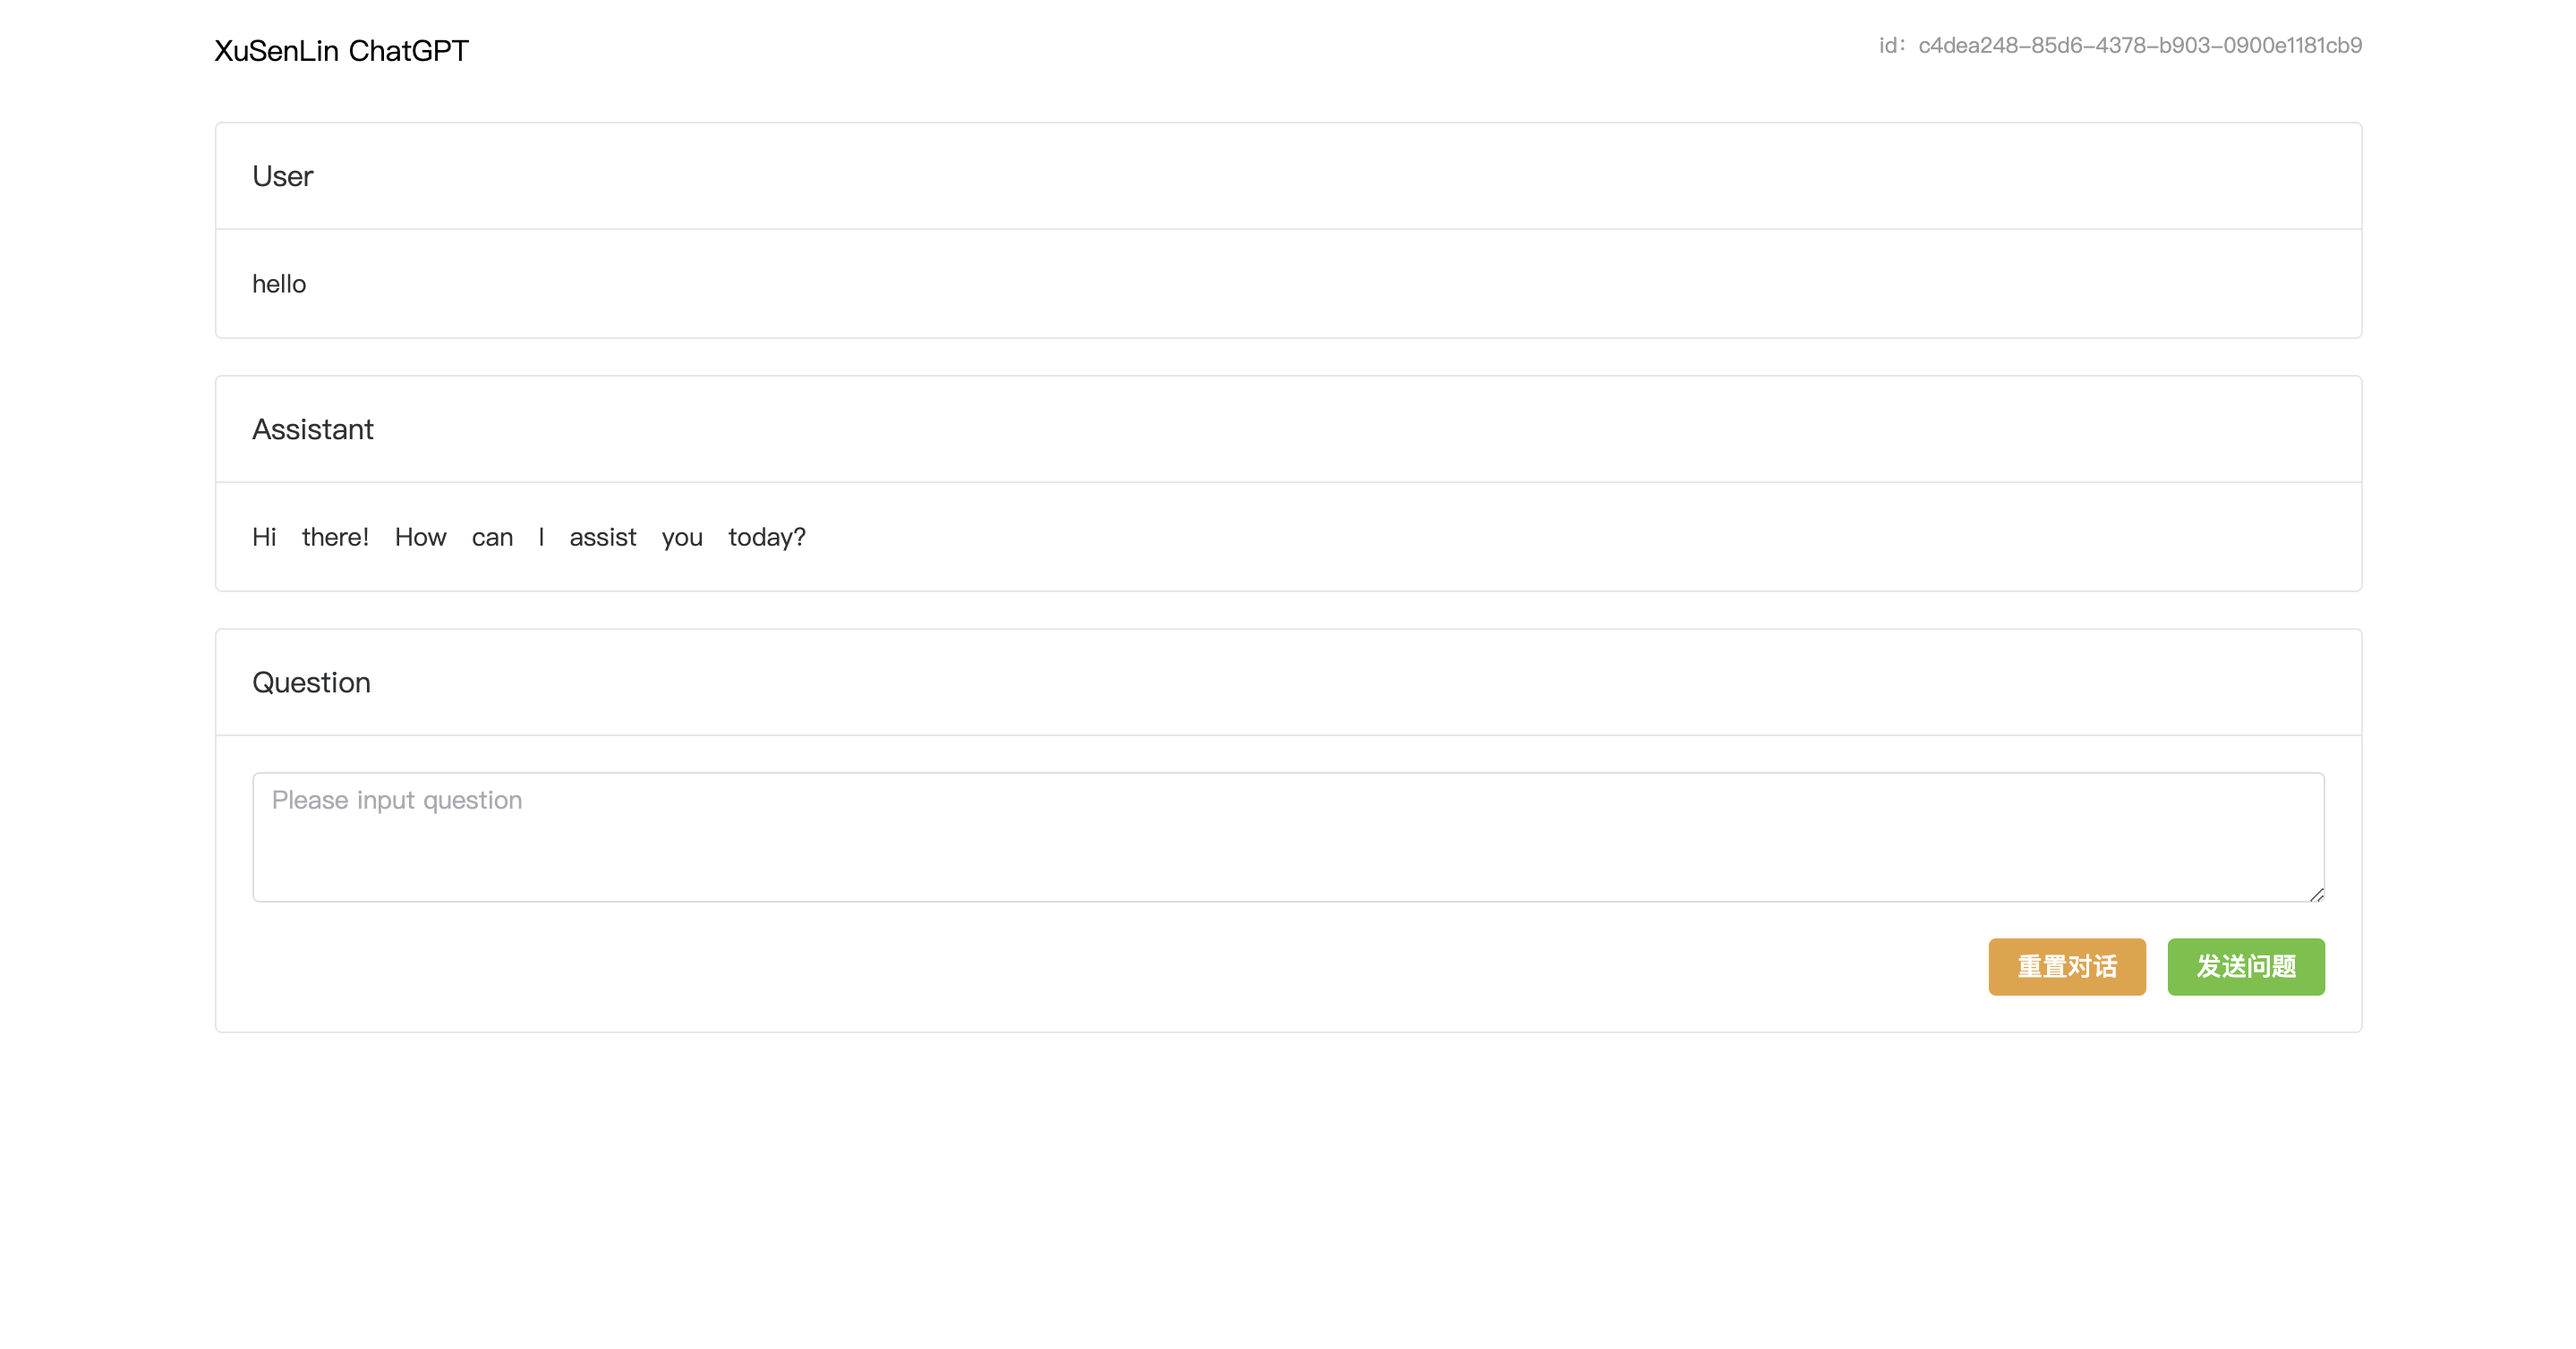
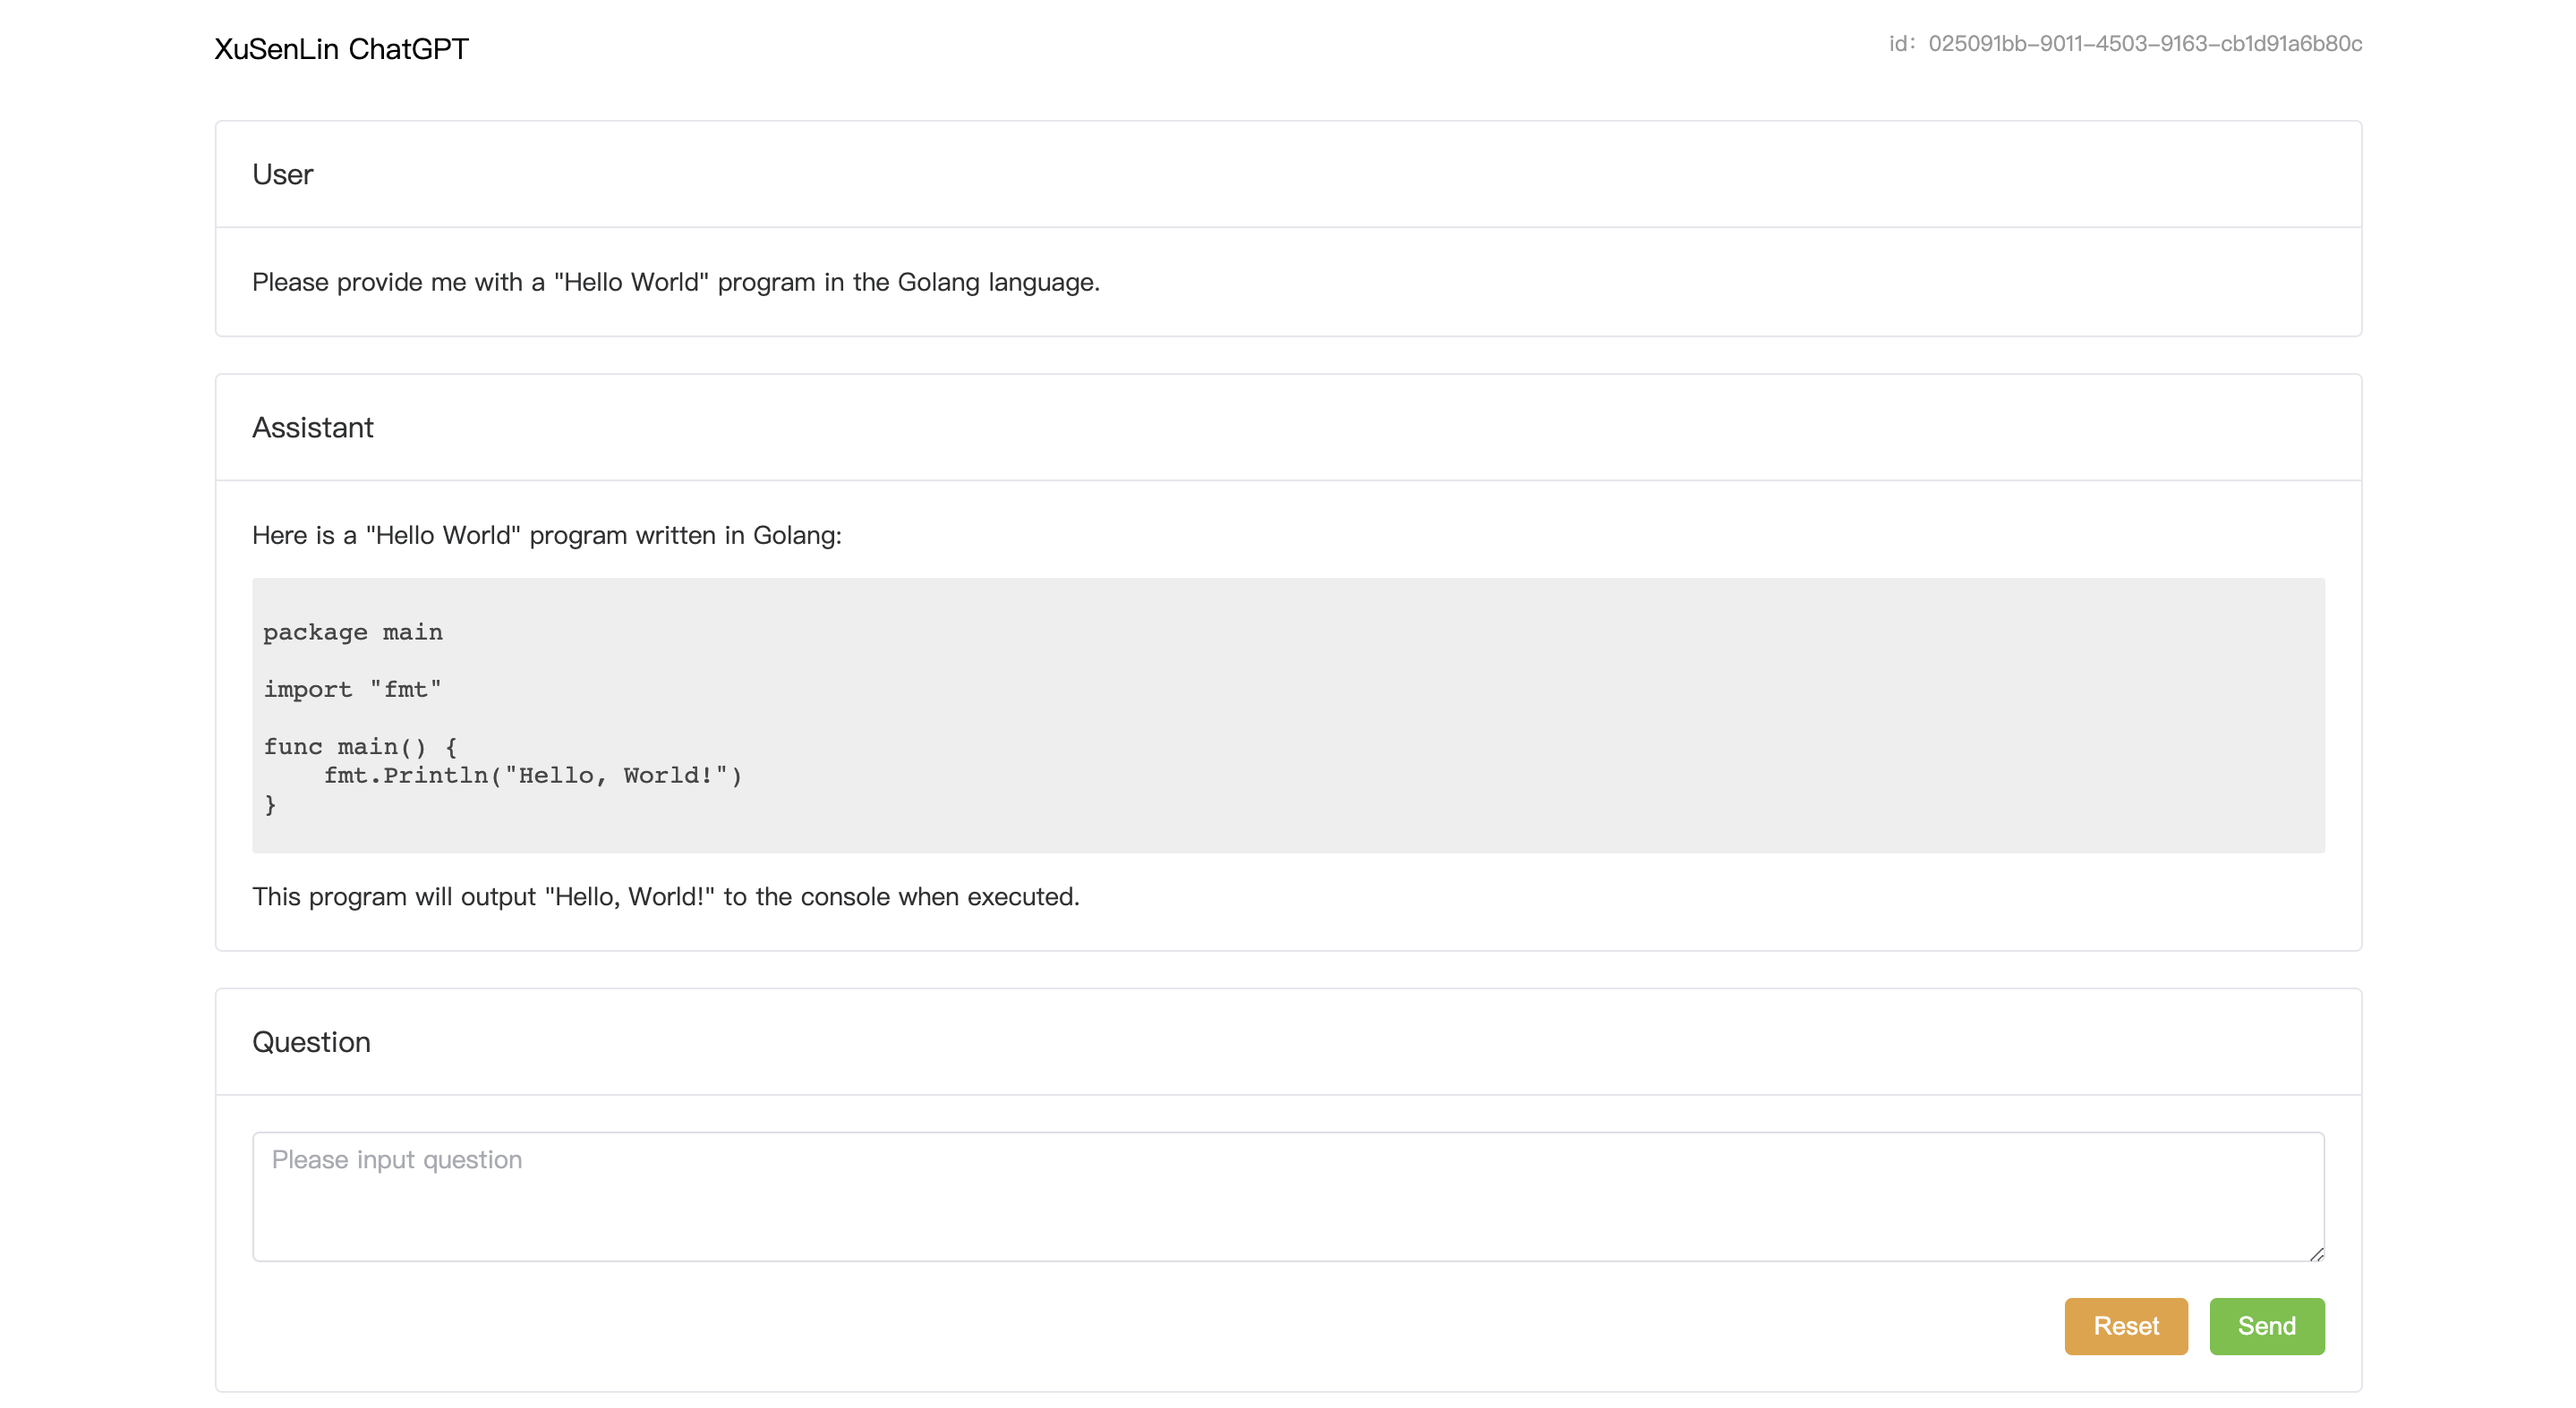
Optimize code display.

diff --git a/index.html b/index.html
@@ -32,6 +32,12 @@
             display: flex;
             justify-content: flex-end;
         }
+        pre{
+            background: #eee;
+            border-radius: 2px;
+            padding: 6px 6px 20px 6px;
+            color: #474747;
+        }
     </style>
 </head>
 <body>
@@ -70,8 +76,8 @@
 
                     </div>
                     <div class="send-group">
-                        <el-button type="warning" :disabled="answering"  @click="resetDialog">重置对话</el-button>
-                        <el-button type="success" :disabled="answering"  @click="sendQuestion">发送问题</el-button>
+                        <el-button type="warning" :disabled="answering"  @click="resetDialog">Reset</el-button>
+                        <el-button type="success" :disabled="answering"  @click="sendQuestion">Send</el-button>
                     </div>
                 </el-card>
             </div>
@@ -144,7 +150,6 @@
             let evtSource = new EventSource("./receive")
             evtSource.onmessage = event => {
                 // 获取服务器发送过来的数据
-                // let data = event.data.replace( /^['|"](.*)['|"]$/, "$1");
                 let len = this.dialog.chat.length
                 this.dialog.chat[len - 1].content += event.data
             };
@@ -152,6 +157,9 @@
                 this.dialog.uuid = event.data
             })
             evtSource.addEventListener("eof", event => {
+                let len = this.dialog.chat.length
+                let c = this.dialog.chat[len - 1].content
+                this.dialog.chat[len - 1].content = c.replace(/```(\w*)([\w\W]*?)```/g,'<pre><code lang="$1">$2</code></pre>')
                 this.answering = false
             })
             evtSource.onerror = (error) => {

diff --git a/main.go b/main.go
@@ -8,6 +8,7 @@ import (
 	"fmt"
 	"github.com/google/uuid"
 	"github.com/sashabaranov/go-openai"
+	"html"
 	"io"
 	"io/ioutil"
 	"log"
@@ -85,7 +86,6 @@ func SendMsgHandler(w http.ResponseWriter, r *http.Request) {
 	}
 
 	w.Write([]byte("ok"))
-	fmt.Println(ResponseEventStream)
 
 	go func() {
 		defer stream.Close()
@@ -133,9 +133,7 @@ func ReceiveHandler(w http.ResponseWriter, r *http.Request) {
 	for {
 		select {
 		case msg := <-ResponseEventStream[u]:
-			s := strings.ReplaceAll(msg.Data, "\n", "<br>")
-			s = strings.ReplaceAll(s, " ", "<span style=\"display: inline-block;width: 1em;\"></span>")
-			fmt.Fprintf(w, "event: %v\ndata: %v\n\n", msg.Event, s)
+			fmt.Fprintf(w, "event: %v\ndata: %v\n\n", msg.Event, parseString(html.EscapeString(msg.Data)))
 			w.(http.Flusher).Flush()
 		case _ = <-r.Context().Done():
 			delete(ResponseEventStream, u)
@@ -164,4 +162,19 @@ func GenerateUUID() (string, error) {
 	uuid[6] = uuid[6]&^0xf0 | 0x40
 	uuidString := fmt.Sprintf("%!(NOVERB)x-%!(NOVERB)x-%!(NOVERB)x-%!(NOVERB)x-%!(NOVERB)x", uuid[0:4], uuid[4:6], uuid[6:8], uuid[8:10], uuid[10:])
 	return uuidString, nil
+}
+
+func parseString(input string) string {
+
+	//fmt.Println("==============")
+	//s := regexp.MustCompile("```(\\w+)").ReplaceAllString(input, "<code lang='$1'>")
+	//s = regexp.MustCompile("```\\n").ReplaceAllString(s, "</code></br>")
+	// 替换 "\n" 为 "</br>"
+	s := strings.ReplaceAll(input, "\n", "</br>")
+	// 替换 "\t" 为 "&nbsp;&nbsp;&nbsp;&nbsp;"
+	s = strings.ReplaceAll(s, "\t", "&nbsp;&nbsp;&nbsp;&nbsp;")
+	// 替换空格为 "&nbsp;"
+	s = strings.ReplaceAll(s, " ", "&nbsp;")
+
+	return s
 }
